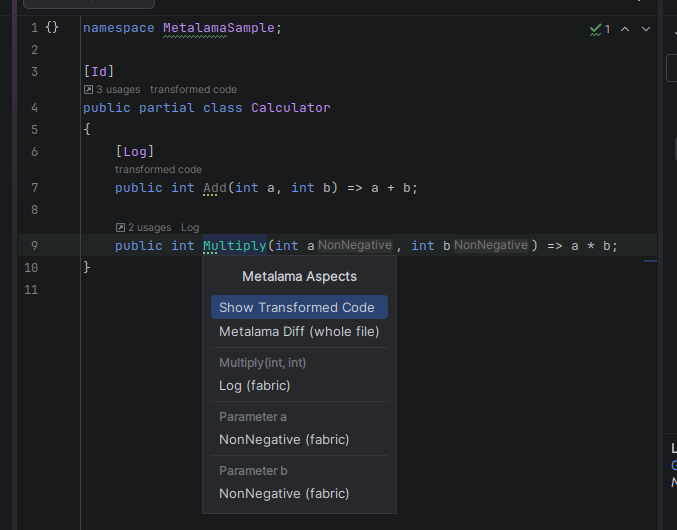
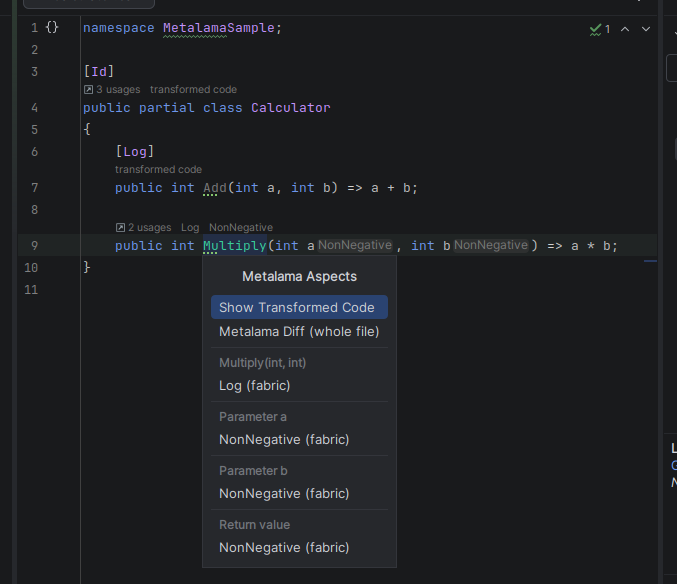
docs: one Code Vision entry per aspect, tooltip origins, run-test lookup fix
README, usage guide (Code Vision tooltips, provider-split limitation), plugin
description and changelog; retaken code-vision screenshots.

diff --git a/docs/plugin-description.html b/docs/plugin-description.html
@@ -14,10 +14,11 @@ refreshes on its own after saves, builds and package changes.</p>
 
 <h3>Code Vision and transformed code</h3>
 <ul>
-  <li>Above every declaration an aspect touches: <b>transformed code</b> for aspects you see as attributes, the names of
-    the others, <b>N aspects</b> for more than two; <b>applied to N targets</b> above aspect classes. The tooltip gives
-    each aspect's origin (attribute, fabric, inherited, ...) and documentation. Aspects a fabric puts on a parameter get
-    an inlay hint.</li>
+  <li>Above every declaration an aspect touches: one entry per aspect added by a fabric, inheritance etc.,
+    <b>N aspects</b> for more than two, <b>transformed code</b> when all are attributes you see anyway; <b>applied to N
+    targets</b> above aspect classes. The tooltip says where the aspect comes from (the fabric's name, or the aspect it
+    is inherited from, added or required by) and gives its documentation. Aspects a fabric puts on a parameter get an
+    inlay hint each.</li>
   <li>A click shows the aspects grouped by member, parameter and return value. Clicking an aspect goes to its source
     (also SourceLink or decompiled), shows it in the LamaRider window, or asks: your choice in the settings.</li>
   <li><b>Show Transformed Code</b> (also a click on <b>transformed code</b>): the transformed code of one declaration in a

diff --git a/README.md b/README.md
@@ -11,7 +11,7 @@ Metalama tooling for JetBrains Rider — the Rider counterpart of the Visual Stu
 | Feature | What you get |
 |---|---|
 | **LamaRider tool window** | Right side bar (llama icon): every aspect class of the solution and its packages, filtered by name and grouped by project/package, by namespace or not at all; documentation and *Go to source* (also for library aspects: sources or decompiled); the targets of the selected aspect as Project › Namespace › Type › Member with transformations and diagnostics. *Track Caret* shows the aspects affecting the code at the caret instead. Refreshes on its own after saves, builds and package changes. |
-| **Code Vision** | Above every declaration an aspect touches: `transformed code` for aspects you see as attributes, the names of the others (`Log`), `N aspects` for more than two; `applied to N targets` on aspect classes. The tooltip lists each aspect with its origin (attribute, added by a fabric, inherited, ...) and documentation. Aspects a fabric or inheritance puts on a parameter get an inlay hint after the parameter. A click on `transformed code` opens the transformed code; on aspect names, a menu with the transformed code, Metalama Diff and the aspects grouped by member, parameter and return value. Clicking an aspect goes to its source, shows it in the LamaRider window, or asks (*Settings › Tools › LamaRider*). |
+| **Code Vision** | Above every declaration an aspect touches: one entry per aspect added by a fabric, inheritance etc. (`Log`, `NonNegative`), `N aspects` for more than two, `transformed code` when all its aspects are attributes you see anyway; `applied to N targets` on aspect classes. The tooltip says where the aspect comes from (the fabric's full name, or the aspect it is inherited from, added or required by) and gives its documentation. Aspects a fabric or inheritance puts on a parameter get an inlay hint per aspect after the parameter. A click on `transformed code` opens the transformed code; on aspect names, a menu with the transformed code, Metalama Diff and the aspects grouped by member, parameter and return value. Clicking an aspect goes to its source, shows it in the LamaRider window, or asks (*Settings › Tools › LamaRider*). |
 | **Transformed code** | *Show Transformed Code* (Code Vision, editor menu): the declaration after all aspects in a popup, highlighted, with a toggle to diff it with the source, *Whole File in Metalama Diff*, and links to the aspects that changed it. *Metalama Diff* (editor / Solution Explorer menu, `Ctrl+K, 0` in the Visual Studio keymap): the whole file, source vs transformed. |
 | **T# highlighting** | Compile-time code in templates is tinted, `meta.*` and compile-time variables stand out. Colors: *Settings › Editor › Color Scheme › Metalama T#*. |
 | **Metalama errors** | Errors such as LAMA0037 are underlined from LamaRider's own analysis seconds after a save, also while Rider's own Metalama analysis waits for a build (LAMA0118). Errors without a location (e.g. an exception in a fabric) show in an info bar on C# editors and on your aspect classes. Alt+Enter: LAMA documentation, *Build project to resume Metalama analysis*; optional build on save. |
@@ -36,8 +36,9 @@ tool window bar.
 
 ![Code Vision and parameter hints](docs/screenshots/code-vision.png)
 
-Code Vision on the sample: `transformed code` on the declarations with aspect attributes, `Log` on a method a fabric
-targets, and `NonNegative` hints after its parameters (hover them for the origin and documentation). Shown on any C# file
+Code Vision on the sample: `transformed code` on the declarations with aspect attributes, one entry each for `Log` and
+`NonNegative` (its return value) on a method a fabric targets, and `NonNegative` hints after its parameters (hover them
+for the fabric's name and the aspect's documentation). Shown on any C# file
 once LamaRider has analyzed it.
 
 ![Code Vision popup](docs/screenshots/code-vision-popup.png)

diff --git a/docs/usage.md b/docs/usage.md
@@ -92,15 +92,19 @@ Above every declaration an aspect touches, Code Vision says which aspects:
 | Code Vision | Meaning |
 |---|---|
 | `transformed code` | Only aspects added by attributes, which you see in the code anyway. Click for the transformed code. |
-| `Log` | Aspects not visible in the code (added by a fabric, inherited, added or required by another aspect, ...). At most two are named. |
-| `3 aspects` | More than two aspects not visible in the code (the count includes all aspects on the declaration). |
+| `Log` | One entry per aspect not visible in the code (added by a fabric, inherited, added or required by another aspect, ...), e.g. `Log` and `NonNegative` side by side. At most two are named. |
+| `3 aspects` | More than two aspects not visible in the code, in one entry (the count includes all aspects on the declaration). |
 | `applied to 2 targets` | On an aspect class: how many targets it has in the solution. |
 
 Aspects on a parameter that an attribute adds count for the member (the attribute is in the code). Aspects on a
-parameter from a fabric, inheritance etc. get an **inlay hint** right after the parameter name, e.g. `a NonNegative`.
-Hover any of these for the full list: one line per aspect with where it comes from (attribute, added by a fabric,
-inherited from a base declaration, added by another aspect, required by another aspect, added from the IDE) and its
-documentation summary.
+parameter from a fabric, inheritance etc. get an **inlay hint** each, right after the parameter name, e.g.
+`a NonNegative`.
+
+**Hover** an entry or hint for its tooltip. A named aspect's tooltip first says where it comes from: *Added by fabric
+MetalamaSample.Fabric* (the fabric's full type name), *Inherited from ...*, *Added by aspect ...* or *Required by aspect
+...* (the aspect instance it comes from), *Added by an attribute*, *Added from the IDE*. Then the aspect's documentation
+summary, wrapped to about 70 characters. The tooltips of `N aspects` and `transformed code` list each aspect that way,
+with its name.
 
 ![Code Vision and parameter hints](screenshots/code-vision.png)
 
@@ -124,6 +128,9 @@ aspects open their SourceLink or decompiled source), *Show it in the LamaRider w
 Limitations:
 
 - Code Vision is per line, so aspects on parameters are hints after the parameter, not Code Vision entries.
+- Rider shows one Code Vision entry per provider and declaration. LamaRider has three providers (*Metalama aspects*,
+  *Metalama aspects (second aspect)*, *Metalama aspect targets*, also in *Settings › Editor › Inlay Hints › Code
+  Vision*), so a declaration shows at most two named aspects, and more collapse into `N aspects`.
 - The counts come from the last refresh: a freshly added `[Log]` shows up after the save has been analyzed.
 
 ## Transformed code

diff --git a/CHANGELOG.md b/CHANGELOG.md
@@ -1,6 +1,10 @@
 # Changelog
 
 ## Unreleased
+- Code Vision shows one entry per aspect added by a fabric, inheritance etc. (Rider shows one entry per provider, so there are three: *Metalama aspects*, *Metalama aspects (second aspect)*, *Metalama aspect targets*); more than two still collapse to "N aspects". Parameter inlay hints are one per aspect too.
+- Hint tooltips start with where the aspect comes from, naming the fabric (full type name) or the aspect instance it is inherited from, added or required by, then its documentation summary, wrapped to about 70 characters. "N aspects" and "transformed code" list each aspect with its name.
+- The "transformed code" hint always opens the transformed code directly.
+- Fixed *Run / Debug Metalama Aspect Test* saying "This file is not in a Metalama aspect test project" for a test file: the lookup accepts Windows paths with '/' and prefers the file's real project over Miscellaneous Files.
 - Code Vision names aspects added by fabrics, inheritance etc.; aspects added by an attribute are not named (the hint reads "transformed code" and opens the transformed code). More than two collapse to "N aspects". The tooltip lists each aspect's origin and documentation summary.
 - Parameters get their own inlay hint for aspects not added by an attribute; the Code Vision menu groups aspects by member, parameter and return value. In the LamaRider window each parameter shows only its own transformations.
 - *Clicking an aspect* setting (Settings › Tools › LamaRider › Code Vision): go to its source (default, library aspects via SourceLink or the decompiler), show it in the LamaRider window, or ask.
